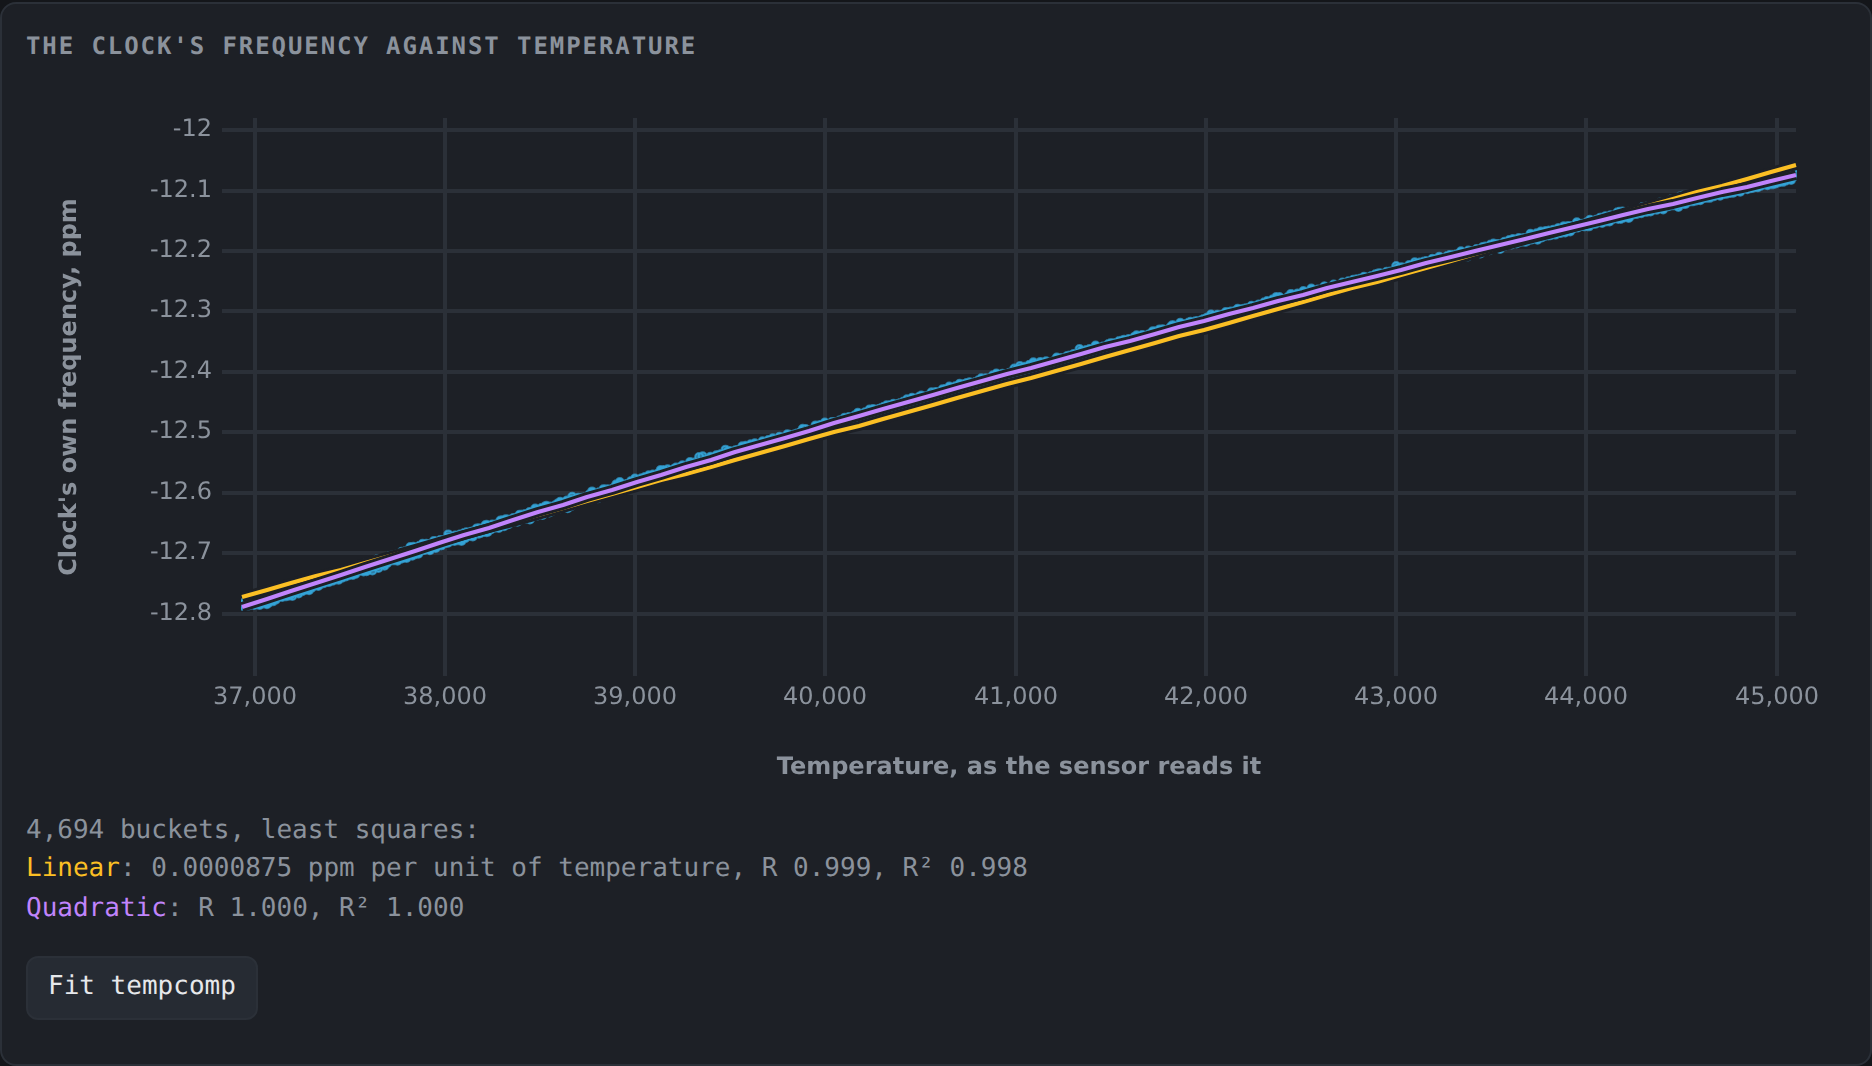
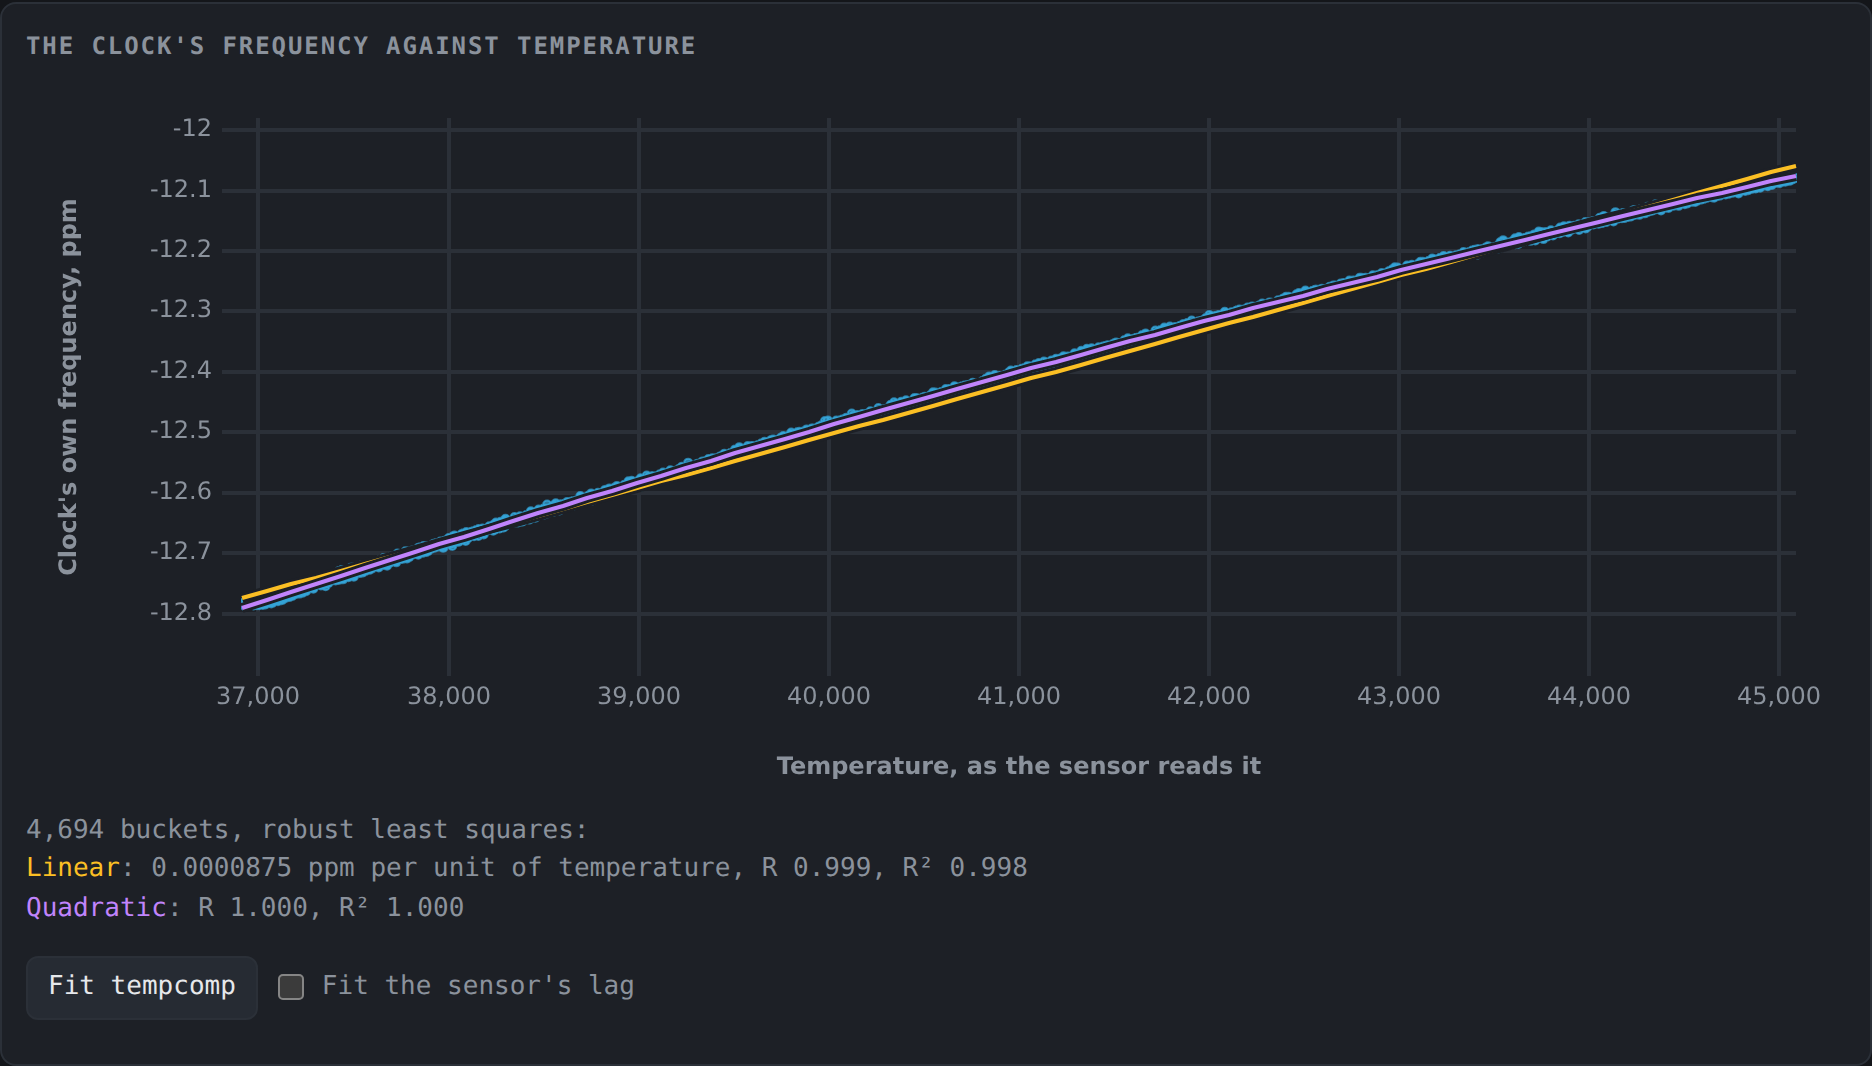
Fit tempcomp robustly, and the sensor's lag on request

diff --git a/crates/chronymon-web/src/temperature.html b/crates/chronymon-web/src/temperature.html
@@ -37,7 +37,11 @@
   <h2>The clock's frequency against temperature</h2>
   <div id="scatter"></div>
   <div id="figures" class="muted"></div>
-  <div class="controls fit"><button id="fit" type="button" hidden>Fit tempcomp</button></div>
+  <div class="controls fit">
+    <button id="fit" type="button" hidden>Fit tempcomp</button>
+    <label title="The clock's crystal warms more slowly than a sensor swinging with load: the temperature is
+filtered by the lag that fits best, from none to a few hours."><input type="checkbox" id="lag"> Fit the sensor's lag</label>
+  </div>
 </div>
 
 <!-- The fit, of the range shown when it was asked for, over the page
@@ -112,7 +116,101 @@ const utcMinute = (at) => new Date(at * 1000).toISOString().slice(0, 16).replace
 // A coefficient as chrony.conf takes it.
 const coefficient = (v) => String(Number(v.toPrecision(COEFFICIENT_FIGURES)));
 
-// The fits, linear and quadratic, of the frequency against the
+// Huber's constant, in robust standard deviations of the residuals:
+// a residual past it counts for less, an NTP source's wander or a step
+// pulling the fit less than it would least squares; on normal noise
+// the fit is 95% as efficient as least squares.
+const HUBER = 1.345;
+// The median absolute deviation to the standard deviation, for normal
+// noise.
+const MAD_SIGMA = 1.4826;
+// Most rounds of reweighting, and the change in the residuals' scale,
+// relative, below which the weights have settled.
+const ROBUST_ROUNDS = 50;
+const ROBUST_SETTLED = 1e-6;
+
+const median = (values) => {
+  const sorted = [...values].sort((a, b) => a - b);
+  const mid = sorted.length >> 1;
+  return sorted.length % 2 ? sorted[mid] : (sorted[mid - 1] + sorted[mid]) / 2;
+};
+const evaluate = (c, x) => c.reduce((s, v, n) => s + v * x ** n, 0);
+
+// The robust (Huber) polynomial of `degree` through `pairs`, x from T0,
+// by least squares reweighted until the weights settle: its
+// coefficients, constant first, and the residuals' robust scale; or
+// null.
+function robustPolynomial(pairs, degree) {
+  let c = polynomial(pairs, degree);
+  let scale = null;
+  for (let round = 0; c && round < ROBUST_ROUNDS; round++) {
+    const residuals = pairs.map(({ x, y }) => y - evaluate(c, x));
+    const next = MAD_SIGMA * median(residuals.map(Math.abs));
+    if (!(next > 0)) return { c, scale: next };
+    const settled = scale != null && Math.abs(next - scale) <= ROBUST_SETTLED * scale;
+    scale = next;
+    if (settled) break;
+    c = polynomial(pairs.map((p, n) =>
+      ({ ...p, w: Math.min(1, HUBER * scale / Math.abs(residuals[n])) })), degree);
+  }
+  return c && { c, scale };
+}
+
+// Lags tried, as a first-order filter's time constant in seconds:
+// none, then a minute to four hours.
+const LAGS = [0, 60, 120, 300, 600, 1200, 1800, 3600, 7200, 14400];
+// A lag is tried only in a range this many times as long; and the
+// filter's first this many time constants, while it settles from the
+// first reading, are not fitted.
+const LAG_SPAN = 10;
+const LAG_SETTLE = 3;
+
+// `values` at the times `at` through a first-order filter of time
+// constant `lag` seconds, as a crystal follows the air around it:
+// null where the reading is.  A gap of many time constants starts it
+// again from the next reading.
+function lagged(at, values, lag) {
+  if (lag === 0) return values;
+  let filtered = null, last = null;
+  return values.map((v, i) => {
+    if (v == null) return null;
+    filtered = filtered == null ? v : filtered + (1 - Math.exp(-(at[i] - last) / lag)) * (v - filtered);
+    last = at[i];
+    return filtered;
+  });
+}
+
+// The lag the frequency follows the temperature by best: of those the
+// range is long enough for, the one whose robust line leaves the least
+// scale, each judged on the same pairs, those past the longest's
+// settling.  `pairsWith(values)` pairs a temperature with the
+// frequency.  The lag, and its pairs past its own settling.
+function bestLag(at, values, pairsWith) {
+  const span = at[at.length - 1] - at[0];
+  const tried = LAGS.filter((lag) => lag * LAG_SPAN <= span);
+  const start = at[0];
+  const settledBy = (lag) => (p) => p.at >= start + LAG_SETTLE * lag;
+  const longest = tried[tried.length - 1];
+  const scored = tried.map((lag) => {
+    const pairs = pairsWith(lagged(at, values, lag));
+    const judged = pairs.filter(settledBy(longest));
+    if (judged.length < MIN_PAIRS) return null;
+    const mean = judged.reduce((s, p) => s + p.x, 0) / judged.length;
+    const fit = robustPolynomial(judged.map((p) => ({ x: p.x - mean, y: p.y })), 1);
+    return fit && { lag, pairs: pairs.filter(settledBy(lag)), scale: fit.scale };
+  }).filter(Boolean);
+  return scored.reduce((best, s) => (s.scale < best.scale ? s : best), scored[0] ?? { lag: 0, pairs: [] });
+}
+
+// The lag the last scatter was fitted with, in seconds; and its
+// readings, drawn again when the lag is turned on or off.
+let lagFitted = 0;
+let scatterFrom = null;
+
+// A lag as the page says it.
+const lagText = (lag) => (lag < 3600 ? `${lag / 60} min` : `${lag / 3600} h`);
+
+// The robust fits, linear and quadratic, of the frequency against the
 // temperature over `pairs`, from T0, their mean temperature: each its
 // name, color, coefficients (constant first, x from T0), and the RMS it
 // leaves; and the frequency's own spread about its mean.  What the
@@ -127,9 +225,9 @@ function fitsOf(pairs) {
   const mean = from.reduce((s, p) => s + p.y, 0) / from.length;
   const spread = rms(from.map((p) => p.y - mean));
   const fits = FITS.flatMap((f) => {
-    const c = polynomial(from, f.degree);
+    const c = robustPolynomial(from, f.degree)?.c;
     if (!c) return [];
-    const value = (x) => c.reduce((s, v, n) => s + v * (x - t0) ** n, 0);
+    const value = (x) => evaluate(c, x - t0);
     const left = rms(pairs.map(({ x, y }) => y - value(x)));
     // R^2, the share of the frequency's variance the fit accounts for.
     const determined = spread > 0 ? 1 - (left / spread) ** 2 : null;
@@ -171,7 +269,11 @@ function drawFits() {
   const common = [
     `# Fitted by chronymon from ${pairs.length} points, ` +
       `${utcMinute(Math.min(...times))} to ${utcMinute(Math.max(...times))} UTC,`,
-    `# of ${sensor.sensor}.`,
+    `# of ${sensor.sensor}, robust (Huber) least squares` +
+      (lagFitted > 0 ? `, the temperature lagged ${lagText(lagFitted)}.` : "."),
+    ...(lagFitted > 0
+      ? [`# chronyd compensates each reading as it is: these lines suit a sensor file filtered by the same lag.`]
+      : []),
   ].join("\n");
   // What was fitted, as text, its comment marks the copy's alone; then
   // each fit, the block to paste, its Copy in its corner, which copies
@@ -195,32 +297,42 @@ function frequencyValues(got) {
 }
 
 function drawScatter(temperature, frequency, points) {
+  scatterFrom = { temperature, frequency, points };
   scatterChart?.destroy();
   scatterChart = null;
   $("scatter").innerHTML = "";
   // The clock's own frequency: chronyd reports what is left after
   // tempcomp's compensation, so it is added back.
   const compensation = temperature.plots.find((p) => p.column === "compensation").mean;
-  const pairs = pairsOn(
-    { read: temperature, values: temperature.plots[0].mean },
-    { read: frequency, values: frequencyValues(frequency) },
+  const frequencies = frequencyValues(frequency);
+  const pairsWith = (values) => pairsOn(
+    { read: temperature, values },
+    { read: frequency, values: frequencies },
     points,
   ).flatMap((p) => (compensation[p.index] == null ? [] : [{ ...p, y: p.y - compensation[p.index] }]));
+  // Fitted only since the sensor last changed: readings before are
+  // another sensor's.
+  const since = lastStatus?.tempcomp?.since ?? null;
+  const read = temperature.plots[0].mean;
+  const sinceAt = since == null ? 0 : temperature.at.findIndex((t) => t >= since);
+  const best = $("lag").checked && sinceAt >= 0
+    ? bestLag(temperature.at.slice(sinceAt), read.slice(sinceAt),
+      (values) => pairsWith([...new Array(sinceAt).fill(null), ...values]))
+    : null;
+  lagFitted = best?.lag ?? 0;
+  const pairs = best ? best.pairs : pairsWith(read);
   fitFrom = null;
   $("fit").hidden = true;
   if (pairs.length < MIN_PAIRS) {
     showHtml($("figures"), "too few readings of both in this range to set against each other");
     return;
   }
-  // Fitted only since the sensor last changed: readings before are
-  // another sensor's.
-  const since = lastStatus?.tempcomp?.since ?? null;
   const fitted = since == null ? pairs : pairs.filter((p) => p.at >= since);
   fitFrom = fitted.length >= MIN_PAIRS ? fitsOf(fitted) : null;
   scatterChart = scatter(
     $("scatter"),
     pairs,
-    { name: columnName(key(TEMPCOMP, "temperature")) },
+    { name: columnName(key(TEMPCOMP, "temperature")) + (lagFitted > 0 ? `, lagged ${lagText(lagFitted)}` : "") },
     { name: OWN_FREQUENCY },
     $("scatter").clientWidth || 800,
     fitFrom?.fits ?? [],
@@ -244,7 +356,8 @@ function drawScatter(temperature, frequency, points) {
     : "";
   showHtml($("figures"),
     `${pairs.length.toLocaleString()} buckets` +
-    (named.length ? `, least squares${sinceChange}:<br>${named.join("<br>")}` : ""));
+    (best ? (lagFitted > 0 ? `, the temperature lagged ${lagText(lagFitted)}, the best fitting` : ", no lag fitting better") : "") +
+    (named.length ? `, robust least squares${sinceChange}:<br>${named.join("<br>")}` : ""));
 }
 
 async function load(signal) {
@@ -282,6 +395,14 @@ async function load(signal) {
 
 // How long Copy says it copied, in ms.
 const COPIED_FOR = 1500;
+
+// The lag kept in the address, and the scatter drawn again when it is
+// turned on or off.
+$("lag").checked = new URLSearchParams(location.search).has("lag");
+$("lag").addEventListener("change", () => {
+  remember({ lag: $("lag").checked ? "" : null });
+  if (scatterFrom) drawScatter(scatterFrom.temperature, scatterFrom.frequency, scatterFrom.points);
+});
 
 $("fit").addEventListener("click", () => {
   drawFits();

diff --git a/docs/how-it-works.md b/docs/how-it-works.md
@@ -261,8 +261,18 @@ reports the frequency left once tempcomp has corrected, so the page
 adds the logged compensation back: the clock's own, whatever the
 coefficients, 0 or a points file.  The
 scatter of one against the other draws the linear and the quadratic
-least squares fits over it, and gives each one's R and R^2, and the line's
-slope.
+fits over it, and gives each one's R and R^2, and the line's slope.
+The fits are robust (Huber) least squares: a reading far off the
+line, an NTP source's wander or step, pulls it less than it would
+plain least squares.
+
+A sensor that swings with load, a CPU's, leads the crystal, which
+warms slowly, and chronyd's frequency estimate lags too.  Fit the
+sensor's lag filters the temperature by a first-order lag, its time
+constant the one, from none to four hours, whose line leaves the least
+spread, tried only in a range ten times as long, and fits that.  chronyd
+compensates each reading as it is, so a line fitted with a lag suits
+only a sensor file filtered by that lag, which the dialog says.
 
 Once a range holds a good spread of temperatures, the page's Fit
 tempcomp opens a dialog of that range's fit, with Copy, and a block

diff --git a/PLAN.md b/PLAN.md
@@ -275,7 +275,15 @@ Journal, Distribution, Kiosk.
   sensor last changed are not (`meta` `tempcomp_since`, journaled
   `tempcomp_changed`).  No settling time after a restart: chronyd's
   first estimates are rough for a few minutes, a little noise in a
-  fit of days.
+  fit of days.  The fits are robust (Huber, reweighted least squares):
+  an NTP-only host's frequency wanders and steps.  The lag is a
+  checkbox, off by default, not the fit's own: chronyd's
+  `read_timeout` (`tempcomp.c`, 4.6) compensates each raw reading, so
+  a lagged line is right only for a sensor file filtered the same
+  way, and fitting it with the lag on its own would hand out a line
+  that adds the sensor's swings to the compensation.  The lag is the
+  time constant of a first-order filter, picked from a fixed set by
+  the least robust spread, all judged on the same readings.
 - A page whose table is empty says why: chronyd logs refclocks and
   tempcomp only when told to.
 - **Kiosk**: smartclock's, one summary page, with `?inset=` and
